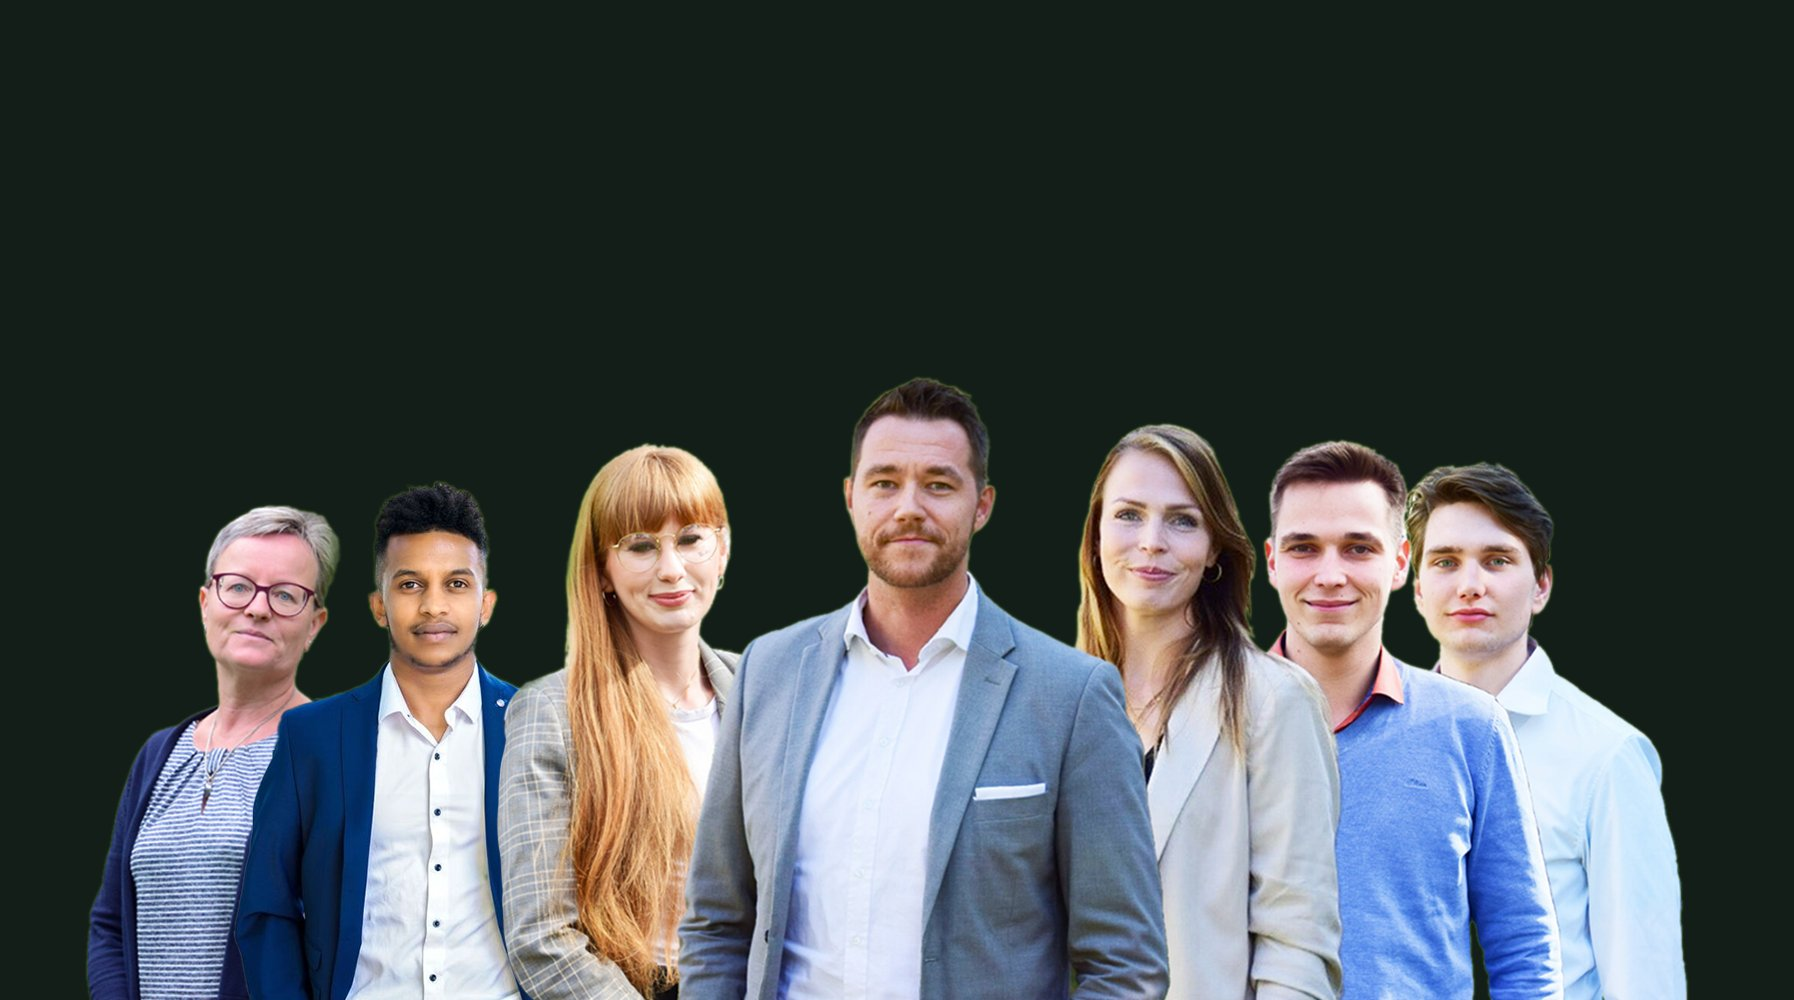
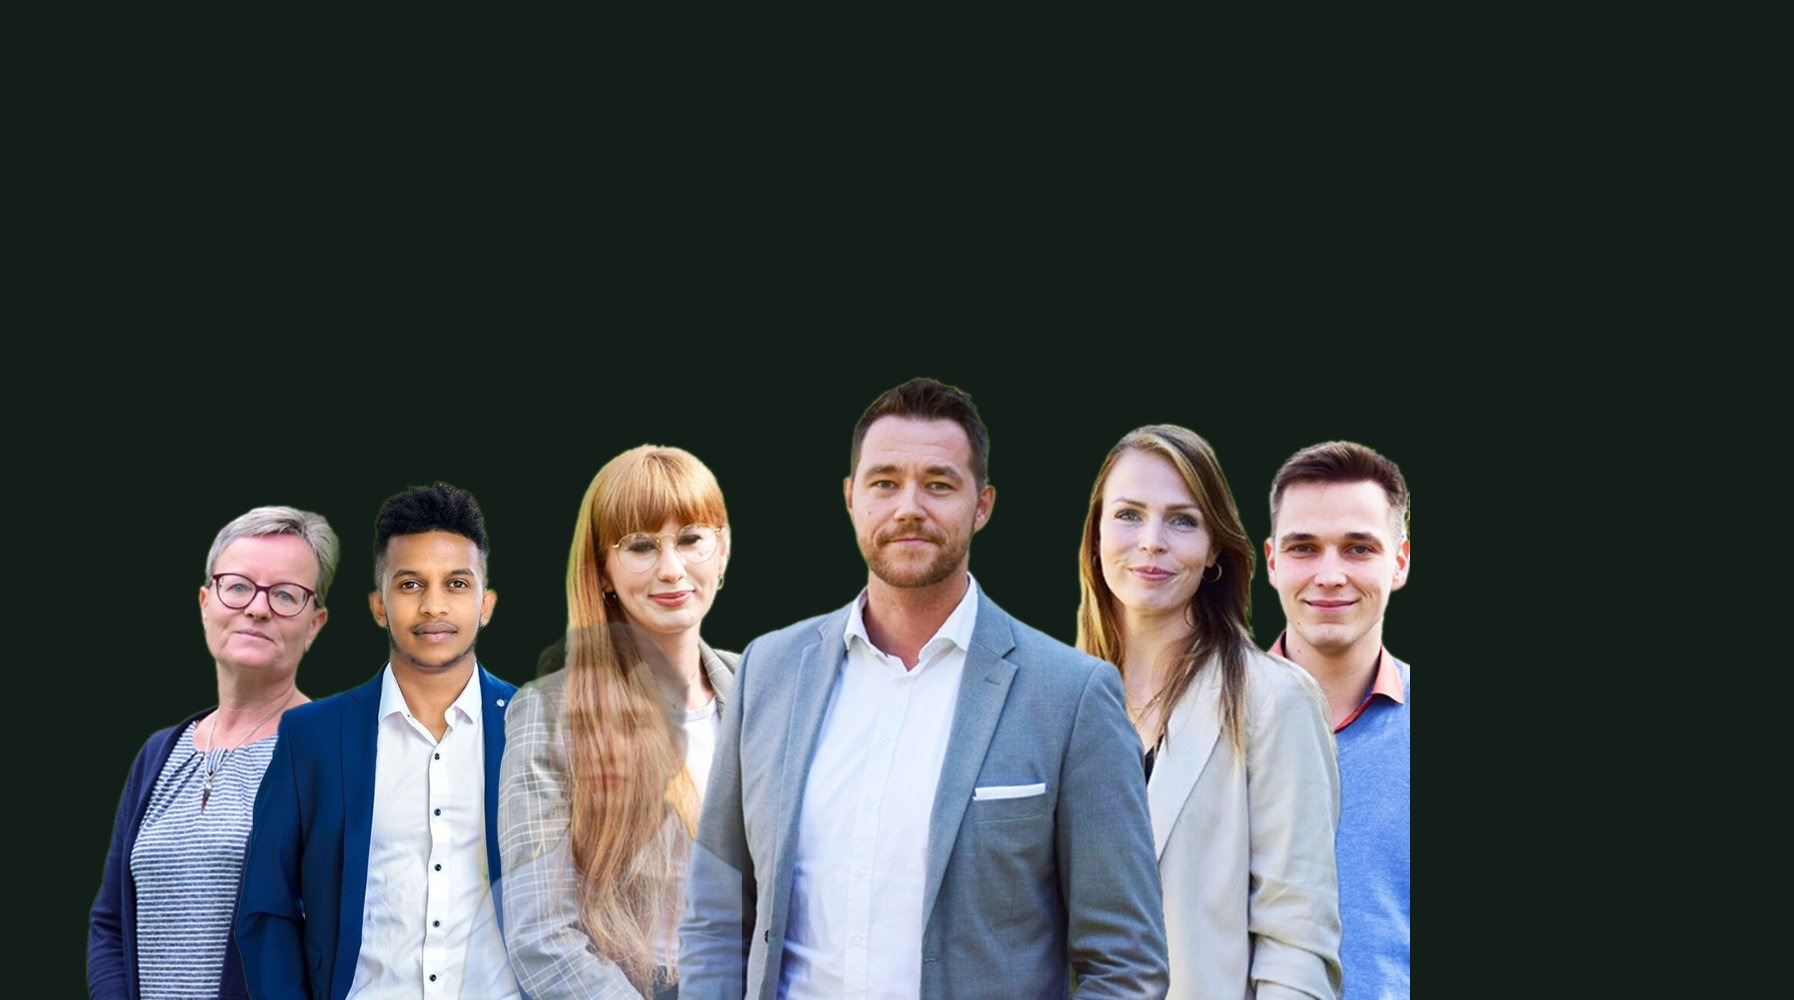
Hero: Abstand oben gestaucht, Text breiter aufgestellt, Philip im Teamfoto verschoben
- Oberer Innenabstand des Hero-Bereichs reduziert (weniger leere dunkle Flaeche)
- Einleitungstext wirbt nicht mehr nur mit dem Schadensfall, sondern mit dem
  gesamten Leistungsspektrum (Vorsorge, Firmenschutz, Ernstfall)
- Philip rechts aus dem Gruppenfoto entfernt und klein/verblasst links im
  Farbverlauf platziert, da er die Agentur voraussichtlich bald verlaesst

Hinweis: Tims und Swenjas Fotos im Gruppenbild bleiben vorerst unveraendert -
ihre aktuellen Referenzfotos sind reine Kopf-Schulter-Aufnahmen und passen
proportional nicht zum Ganzkoerper-Zuschnitt des Gruppenfotos. Fuer einen
sauberen Austausch braucht es entweder neue Fotos im gleichen Rahmen oder
eine bewusst kleinere, weniger realistische Skalierung.

Changed region(s): [[0.7804, 0.465, 0.9677, 1.0], [0.2497, 0.62, 0.437, 1.0]]

diff --git a/src/components/site/hero.tsx b/src/components/site/hero.tsx
@@ -52,7 +52,7 @@ export function Hero() {
         <div className="absolute inset-0 bg-[radial-gradient(ellipse_at_16%_30%,rgba(104,160,64,0.15),transparent_52%)]" />
       </div>
 
-      <div className="relative mx-auto max-w-[1240px] px-6 pb-16 pt-36 sm:pb-20 sm:pt-40 lg:px-10 lg:pb-24 lg:pt-44">
+      <div className="relative mx-auto max-w-[1240px] px-6 pb-16 pt-28 sm:pb-20 sm:pt-32 lg:px-10 lg:pb-24 lg:pt-36">
         <div className="max-w-[38rem]">
           <p className={cn("eyebrow text-brand-bright", rise("delay-0"))}>
             HDI Generalvertretung · Erfurt
@@ -85,9 +85,9 @@ export function Hero() {
               rise("delay-200"),
             )}
           >
-            Im Schadensfall erreichen Sie bei uns keine Hotline, sondern eine
-            feste Ansprechpartnerin mit eigener Durchwahl – und ein Team, das
-            Sie beim Namen kennt.
+            Ob private Vorsorge, Firmenschutz oder der Ernstfall: Sie bekommen
+            ehrliche Beratung und feste Ansprechpartner – keine anonyme
+            Hotline, sondern ein Team, das Sie beim Namen kennt.
           </p>
 
           <div className={cn("mt-10 flex flex-wrap items-center gap-3", rise("delay-300"))}>
